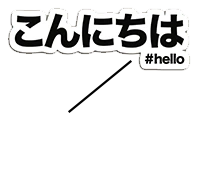
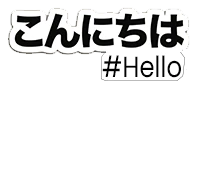
Polish builder mascots and make HI bubble replace confirm-to-save.
Shrink season mascot, nudge timeline mascot left, show guest strips on Adults/Kids, and require Save before writing the HI bubble asset.

diff --git a/components/team/HiBubbleEditor.tsx b/components/team/HiBubbleEditor.tsx
@@ -10,19 +10,27 @@ import { HI_BUBBLE_PATH } from "@/lib/brandCharacters";
 
 /**
  * Team Access — replace the mascot-tap HI bubble + live preview.
+ * Choose file → preview draft; Save → write to public/brand.
  */
 export function HiBubbleEditor() {
   const [bust, setBust] = useState(0);
-  const [previewSrc, setPreviewSrc] = useState(HI_BUBBLE_PATH);
+  const [liveSrc, setLiveSrc] = useState(HI_BUBBLE_PATH);
+  const [draftFile, setDraftFile] = useState<File | null>(null);
+  const [draftUrl, setDraftUrl] = useState<string | null>(null);
   const [replacing, setReplacing] = useState(false);
   const [error, setError] = useState<string | null>(null);
   const [msg, setMsg] = useState<string | null>(null);
   const [meta, setMeta] = useState<string | null>(null);
   const { showHi, triggerHi } = useMascotHiTap();
 
+  const previewSrc = draftUrl || liveSrc;
+  const hasDraft = Boolean(draftFile && draftUrl);
+
   const loadMeta = useCallback(async () => {
     try {
-      const res = await fetch("/api/admin/brand-characters", { cache: "no-store" });
+      const res = await fetch("/api/admin/brand-characters", {
+        cache: "no-store",
+      });
       const data = await res.json();
       if (!res.ok) throw new Error(data.error || "Failed to load");
       const row = (data.items || []).find(
@@ -30,7 +38,7 @@ export function HiBubbleEditor() {
       );
       if (row) {
         setMeta(row.currentLabel || null);
-        setPreviewSrc(`${row.path}?v=${Date.now()}`);
+        setLiveSrc(`${row.path}?v=${Date.now()}`);
         setBust(Date.now());
       }
     } catch (err) {
@@ -48,14 +56,36 @@ export function HiBubbleEditor() {
     return () => window.clearTimeout(t);
   }, [msg]);
 
-  const onReplace = async (file: File | null) => {
+  useEffect(
+    () => () => {
+      if (draftUrl) URL.revokeObjectURL(draftUrl);
+    },
+    [draftUrl]
+  );
+
+  const clearDraft = () => {
+    if (draftUrl) URL.revokeObjectURL(draftUrl);
+    setDraftFile(null);
+    setDraftUrl(null);
+  };
+
+  const onPickFile = (file: File | null) => {
     if (!file) return;
+    setError(null);
+    setMsg(null);
+    if (draftUrl) URL.revokeObjectURL(draftUrl);
+    setDraftFile(file);
+    setDraftUrl(URL.createObjectURL(file));
+  };
+
+  const onSave = async () => {
+    if (!draftFile) return;
     setReplacing(true);
     setError(null);
     try {
       const fd = new FormData();
       fd.append("id", "hi-bubble");
-      fd.append("file", file);
+      fd.append("file", draftFile);
       const res = await fetch("/api/admin/brand-characters", {
         method: "POST",
         body: fd,
@@ -68,8 +98,9 @@ export function HiBubbleEditor() {
           : "Saved. Refresh Pre-Elite / Builders / Itinerary to see it."
       );
       if (data.item?.currentLabel) setMeta(data.item.currentLabel);
+      clearDraft();
       const next = `${HI_BUBBLE_PATH}?v=${Date.now()}`;
-      setPreviewSrc(next);
+      setLiveSrc(next);
       setBust(Date.now());
     } catch (err) {
       setError(err instanceof Error ? err.message : "Replace failed");
@@ -86,8 +117,8 @@ export function HiBubbleEditor() {
         </p>
         <p className="mt-1 text-sm text-zinc-400">
           Shown for 2.5s when guests tap the mascot on Pre-Elite, Pre-Build,
-          Builder M/S, and Itinerary. Replace the asset here — live pages keep
-          the same path.
+          Builder M/S, and Itinerary. Choose a file to preview, then Save to
+          replace the live asset.
         </p>
         <p className="mt-2 font-mono text-[0.65rem] text-zinc-500">
           {HI_BUBBLE_PATH}
@@ -100,38 +131,60 @@ export function HiBubbleEditor() {
           </p>
         ) : null}
         {msg ? <p className="mt-3 text-sm text-emerald-400">{msg}</p> : null}
+        {hasDraft ? (
+          <p className="mt-3 text-sm text-amber-300">
+            Draft ready — preview below. Save to apply, or Cancel to discard.
+          </p>
+        ) : null}
 
         <label className="mt-4 block">
           <span className="text-xs font-semibold uppercase tracking-wider text-zinc-400">
-            Replace image
+            Choose image
           </span>
           <input
             type="file"
             accept="image/png,image/jpeg,image/webp,image/gif"
             disabled={replacing}
-            className="mt-2 block w-full text-xs text-zinc-300 file:mr-2 file:rounded-lg file:border-0 file:bg-[#075473] file:px-3 file:py-1.5 file:text-xs file:font-semibold file:text-white"
+            className="mt-2 block w-full text-xs text-zinc-300 file:mr-2 file:rounded-lg file:border-0 file:bg-zinc-700 file:px-3 file:py-1.5 file:text-xs file:font-semibold file:text-white"
             onChange={(e) => {
               const f = e.target.files?.[0] ?? null;
               e.target.value = "";
-              void onReplace(f);
+              onPickFile(f);
             }}
           />
           <p className="mt-1 text-[0.65rem] text-zinc-500">
-            {replacing
-              ? "Saving…"
-              : "PNG/JPG → auto WebP · keeps hi-bubble.webp"}
+            PNG/JPG → auto WebP on Save · keeps hi-bubble.webp
           </p>
         </label>
+
+        <div className="mt-4 flex flex-wrap gap-2">
+          <button
+            type="button"
+            disabled={!hasDraft || replacing}
+            onClick={() => void onSave()}
+            className="rounded-xl bg-[#075473] px-4 py-2 text-xs font-semibold uppercase tracking-wider text-white disabled:cursor-not-allowed disabled:opacity-40"
+          >
+            {replacing ? "Saving…" : "Save"}
+          </button>
+          <button
+            type="button"
+            disabled={!hasDraft || replacing}
+            onClick={clearDraft}
+            className="rounded-xl border border-zinc-700 px-4 py-2 text-xs font-semibold uppercase tracking-wider text-zinc-300 disabled:cursor-not-allowed disabled:opacity-40"
+          >
+            Cancel
+          </button>
+        </div>
       </div>
 
       <div className="grid gap-4 sm:grid-cols-2">
         <div className="flex min-h-[14rem] flex-col items-center justify-center rounded-2xl border border-zinc-800 bg-zinc-950/80 p-6">
           <p className="mb-3 text-[0.65rem] font-semibold uppercase tracking-[0.18em] text-zinc-500">
-            Asset
+            {hasDraft ? "Draft preview" : "Asset"}
           </p>
           {/* eslint-disable-next-line @next/next/no-img-element */}
           <img
-            key={bust}
+            key={hasDraft ? draftUrl! : bust}
             src={previewSrc}
             alt="HI bubble"
             className="max-h-36 w-auto object-contain drop-shadow-lg"

diff --git a/components/branding/GuestCountStrip.tsx b/components/branding/GuestCountStrip.tsx
@@ -1,0 +1,88 @@
+"use client";
+
+import { AnimatePresence, motion } from "framer-motion";
+import {
+  GUEST_PARTY_ADULTS,
+  GUEST_PARTY_CHICK_SRC,
+} from "@/lib/guestPartyLayout";
+
+/** Larger “lead” adult in the guest stepper strip. */
+const MAIN_ADULT_SRC = "/brand/mascot-look.webp";
+
+/**
+ * Inline guest characters beside Adults / Kids steppers.
+ * Adults: 1 large main + smaller party animals as count rises.
+ * Kids: chicks (up to 4).
+ */
+export function GuestCountStrip({
+  kind,
+  count,
+}: {
+  kind: "adults" | "kids";
+  count: number;
+}) {
+  if (kind === "kids") {
+    const n = Math.max(0, Math.min(4, Math.round(count) || 0));
+    if (n === 0) {
+      return <div className="min-w-0 flex-1" aria-hidden />;
+    }
+    return (
+      <div
+        className="flex min-w-0 flex-1 items-end justify-start gap-0.5 overflow-visible px-1"
+        aria-hidden
+      >
+        <AnimatePresence initial={false}>
+          {Array.from({ length: n }, (_, i) => (
+            <motion.img
+              key={`chick-${i}`}
+              src={GUEST_PARTY_CHICK_SRC}
+              alt=""
+              initial={{ opacity: 0, scale: 0.8, y: 4 }}
+              animate={{ opacity: 1, scale: 1, y: 0 }}
+              exit={{ opacity: 0, scale: 0.85 }}
+              transition={{ duration: 0.2 }}
+              className="h-7 w-auto shrink-0 object-contain drop-shadow-[0_4px_8px_rgba(0,0,0,0.4)]"
+              draggable={false}
+            />
+          ))}
+        </AnimatePresence>
+      </div>
+    );
+  }
+
+  const n = Math.max(1, Math.min(6, Math.round(count) || 1));
+  const companions = GUEST_PARTY_ADULTS.filter((a) => n >= a.minAdults);
+
+  return (
+    <div
+      className="flex min-w-0 flex-1 items-end justify-start gap-0.5 overflow-visible px-1"
+      aria-hidden
+    >
+      <AnimatePresence initial={false}>
+        <motion.img
+          key="main-adult"
+          src={MAIN_ADULT_SRC}
+          alt=""
+          initial={{ opacity: 0, scale: 0.85 }}
+          animate={{ opacity: 1, scale: 1 }}
+          transition={{ duration: 0.2 }}
+          className="h-9 w-auto shrink-0 object-contain drop-shadow-[0_4px_8px_rgba(0,0,0,0.4)]"
+          draggable={false}
+        />
+        {companions.map((a) => (
+          <motion.img
+            key={a.id}
+            src={a.src}
+            alt=""
+            initial={{ opacity: 0, scale: 0.8, y: 4 }}
+            animate={{ opacity: 1, scale: 1, y: 0 }}
+            exit={{ opacity: 0, scale: 0.85 }}
+            transition={{ duration: 0.2 }}
+            className="h-6 w-auto shrink-0 object-contain drop-shadow-[0_4px_8px_rgba(0,0,0,0.4)]"
+            draggable={false}
+          />
+        ))}
+      </AnimatePresence>
+    </div>
+  );
+}

diff --git a/components/builder/modals/DurationEditorModal.tsx b/components/builder/modals/DurationEditorModal.tsx
@@ -16,6 +16,7 @@ import { type PaceId } from "@/lib/travelPace";
 import { useSiteBrandingStore } from "@/store/useSiteBrandingStore";
 import { PaceDetailModal } from "@/components/builder/modals/PaceDetailModal";
 import { SeasonalityDetailModal } from "@/components/builder/modals/SeasonalityDetailModal";
+import { GuestCountStrip } from "@/components/branding/GuestCountStrip";
 
 const PRESETS = [10, 14, 21] as const;
 
@@ -319,12 +320,14 @@ export function DurationEditorModal({
                     value={adults}
                     onChange={setAdults}
                     min={1}
+                    kind="adults"
                   />
                   <GuestStepper
                     label="Children"
                     value={children}
                     onChange={setChildren}
                     min={0}
+                    kind="kids"
                   />
                 </div>
                 <p className="mt-1.5 text-xs text-zinc-400">
@@ -374,16 +377,19 @@ function GuestStepper({
   value,
   onChange,
   min,
+  kind,
 }: {
   label: string;
   value: number;
   onChange: (n: number) => void;
   min: number;
+  kind: "adults" | "kids";
 }) {
   return (
-    <div className="flex items-center justify-between border-b border-zinc-800 px-4 py-3.5 last:border-b-0">
-      <span className="text-sm font-medium text-white">{label}</span>
-      <div className="flex items-center gap-3">
+    <div className="flex items-center justify-between gap-2 border-b border-zinc-800 px-4 py-3.5 last:border-b-0">
+      <span className="w-16 shrink-0 text-sm font-medium text-white">{label}</span>
+      <GuestCountStrip kind={kind} count={value} />
+      <div className="flex shrink-0 items-center gap-3">
         <button
           type="button"
           aria-label={`Decrease ${label}`}

diff --git a/components/builder-s/SingleDayTripDetailModal.tsx b/components/builder-s/SingleDayTripDetailModal.tsx
@@ -25,6 +25,7 @@ import {
 import type { SeasonTierName } from "@/store/useBuilderStore";
 import { usePreBuilderStore } from "@/store/usePreBuilderStore";
 import { useSiteBrandingStore } from "@/store/useSiteBrandingStore";
+import { GuestCountStrip } from "@/components/branding/GuestCountStrip";
 
 /**
  * Builder S–only tour details modal.
@@ -226,12 +227,14 @@ export function SingleDayTripDetailModal({
                     value={adults}
                     onChange={setAdults}
                     min={1}
+                    kind="adults"
                   />
                   <GuestStepper
                     label="Kids"
                     value={children}
                     onChange={setChildren}
                     min={0}
+                    kind="kids"
                   />
                 </div>
               </div>
@@ -448,16 +451,19 @@ function GuestStepper({
   value,
   onChange,
   min,
+  kind,
 }: {
   label: string;
   value: number;
   onChange: (n: number) => void;
   min: number;
+  kind: "adults" | "kids";
 }) {
   return (
-    <div className="flex items-center justify-between gap-3 border-b border-white/5 px-4 py-3 last:border-b-0">
-      <span className="text-sm font-medium text-white">{label}</span>
-      <div className="flex items-center gap-2">
+    <div className="flex items-center justify-between gap-2 border-b border-white/5 px-4 py-3 last:border-b-0">
+      <span className="w-14 shrink-0 text-sm font-medium text-white">{label}</span>
+      <GuestCountStrip kind={kind} count={value} />
+      <div className="flex shrink-0 items-center gap-2">
         <button
           type="button"
           aria-label={`Decrease ${label}`}

diff --git a/components/builder/SeasonalityCard.tsx b/components/builder/SeasonalityCard.tsx
@@ -61,7 +61,7 @@ export function SeasonalityCard({
             animate={{ opacity: 1, y: 0, scale: 1 }}
             exit={{ opacity: 0, scale: 0.94 }}
             transition={{ duration: 0.25 }}
-            className="h-[12.75rem] w-auto object-contain object-right drop-shadow-[0_8px_16px_rgba(0,0,0,0.55)] sm:h-[15rem]"
+            className="h-[10.2rem] w-auto object-contain object-right drop-shadow-[0_8px_16px_rgba(0,0,0,0.55)] sm:h-[12rem]"
             draggable={false}
           />
         </AnimatePresence>

diff --git a/components/builder-single/SingleDayProgressBar.tsx b/components/builder-single/SingleDayProgressBar.tsx
@@ -97,7 +97,7 @@ export function SingleDayProgressBar() {
             ))}
           </ol>
         </nav>
-        <TimelineProgressMascot className="mt-3 -mb-5 sm:mt-4" />
+        <TimelineProgressMascot className="mt-3 -mb-5 -ml-8 sm:mt-4 sm:-ml-10" />
       </div>
     </div>
   );

diff --git a/components/builder/ProgressBar.tsx b/components/builder/ProgressBar.tsx
@@ -184,7 +184,7 @@ export function StickyProgressBar() {
             ))}
           </ol>
         </nav>
-        <TimelineProgressMascot className="mt-3 -mb-5 sm:mt-4" />
+        <TimelineProgressMascot className="mt-3 -mb-5 -ml-8 sm:mt-4 sm:-ml-10" />
       </div>
     </div>
   );
